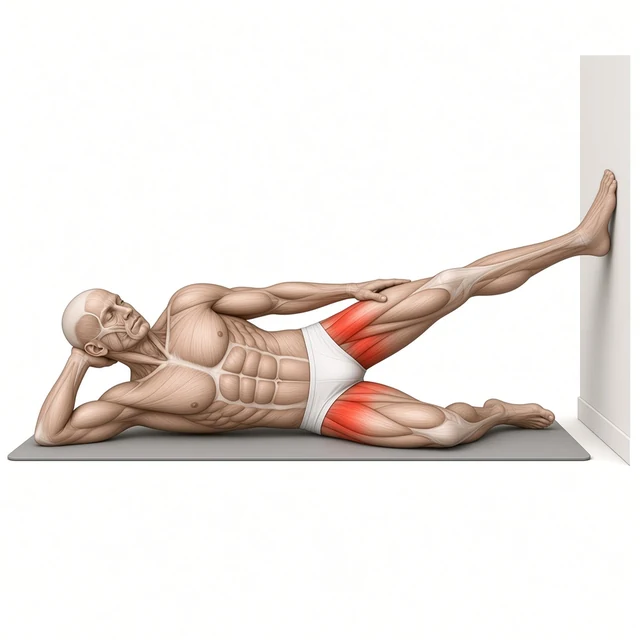
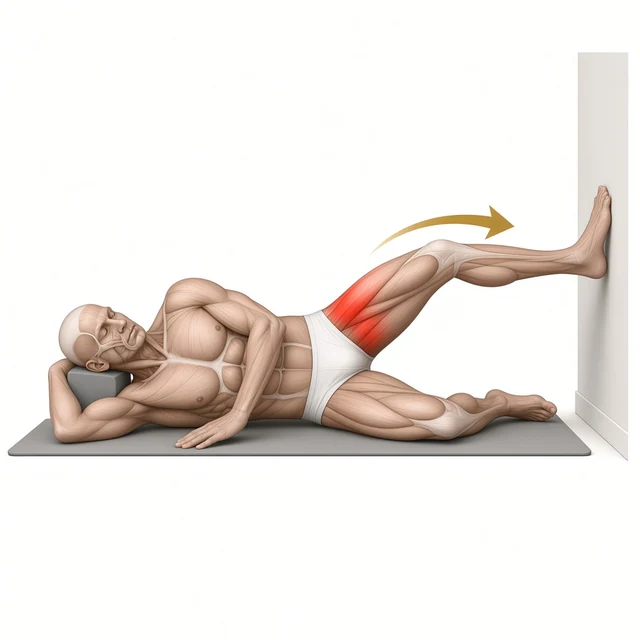
Update 2026-11-09

Changed region(s): [[0.0, 0.25, 1.0, 0.7188]]

diff --git a/mobility.js b/mobility.js
@@ -1,4 +1,4 @@
-/* Voccola Gym Log – Hüft-Beweglichkeit (v1.7.24). Eigene Daten in localStorage 'vgl-mob', berührt Trainingsdaten nicht. */
+/* Voccola Gym Log – Hüft-Beweglichkeit (v1.7.25). Eigene Daten in localStorage 'vgl-mob', berührt Trainingsdaten nicht. */
 'use strict';
 (function () {
 const KEY = 'vgl-mob';
@@ -108,6 +108,7 @@ const EX = [
     cues: ['Rücken lang, Bauch leicht fest – das Becken bleibt ruhig', 'Langsam heben, langsam zurück', 'Fortgeschritten: Rolle höher stellen', 'Kein Vorbeugen – bleib aufrecht'],
     err: ['Mit Schwung über die Rolle schleudern', 'Oberkörper kippt zur Seite oder nach hinten', 'Rundrücken'] }
 ];
+/* v1.7.25: hipwallrot korrigiert (Zac Cupples) + Diagonalschritt an der Wand (hipwallstep) – Abend-Kern, Zähler 11/11 */
 /* v1.7.24: +Hüft-Rotation an der Wand (Seitlage) – Abend-Kern (core), Zähler 10/10 */
 /* v1.7.23: +Hüftbeuger-Dehnung im Stehen (Fuß erhöht) – Abend-Kern (core), Zähler 9/9 */
 const EVE = [
@@ -152,10 +153,14 @@ const EVE = [
     steps: ['Vorderen Fuß auf eine Erhöhung stellen (Stufe oder Bank), hinteres Bein gestreckt am Boden.', 'Gesäß des hinteren Beins fest anspannen und das Becken leicht nach hinten kippen (Schambein Richtung Bauchnabel).', 'Dann die Hüfte nur ein kleines Stück nach vorn Richtung vorderes Knie schieben, bis es im Hüftbeuger des hinteren Beins zieht.', 'Oberkörper aufrecht, ruhig atmen, 30–45 s halten. Seite wechseln – 2 Sätze pro Seite.'],
     cues: ['Kein Hohlkreuz – Rippen unten, Bauch leicht fest', 'Oberkörper bleibt aufrecht', 'Ruhig atmen, Zug deutlich aber nie stechend', 'Nicht nachfedern'],
     err: ['Ins Hohlkreuz ausweichen', 'Zu weit nach vorn schieben / wippen', 'Stechenden Schmerz ignorieren', 'Oberkörper nach vorn kippen'] },
-  { id: 'hipwallrot', core: 1, eve: 1, n: 'Hüft-Rotation an der Wand (Seitlage)', sub: 'Abend · Hüftrotatoren & seitliches Gesäß, Becken neutral', dose: '2×5 Atemzüge à ~5 s pro Seite', t: 'reps', sets: 2, reps: 5, ps: true,
-    steps: ['Seitlage, Kopf auf dem unteren Arm abgelegt. Unteres Bein leicht gebeugt, oberes Bein gestreckt.', 'Fuß des oberen Beins auf Hüfthöhe an die Wand stellen – nur die Außenkante berührt die Wand.', 'Außenkante des Fußes sanft in die Wand drücken (ca. 30–40 % Kraft), Becken bleibt ruhig und neutral – nicht nach hinten kippen.', 'Ruhig ausatmen beim Drücken, 5 Atemzüge à ca. 5 s. Lösen, 2 Runden pro Seite. Variante im Stehen (Ausfallschritt) möglich.'],
-    cues: ['Becken bleibt ruhig und neutral – nicht nach hinten kippen', 'Leichter Druck, 30–40 % Kraft – kein Schmerz, kein Krampf', 'Ruhig ausatmen beim Drücken', 'Soll sich aktivierend anfühlen', 'Beide Seiten machen'],
-    err: ['Becken nach hinten kippen / rollen', 'Zu stark drücken bis Krampf', 'Stechenden Schmerz ignorieren', 'Atem anhalten'] },
+  { id: 'hipwallrot', core: 1, eve: 1, n: 'Hüft-Rotation an der Wand (Seitlage)', sub: 'Abend · Hüft-Innenrotation, hohe Seite oben · Zac Cupples', dose: '3×60 s · beidseitig (bis hohe Seite geklärt)', t: 'time', sets: 3, secs: 60, ps: true,
+    steps: ['Seitlage, hohe Hüfte oben (vorerst beidseitig, bis fachlich geklärt). Polster unter dem Kopf, unterer Arm unter dem Kopf, oberer Arm locker vor der Brust.', 'Oberes Bein ganz gestreckt, Fuß hinter dir an der Wand – Ferse und Fußballen flach in die Wand drücken. Unteres Knie leicht gebeugt, Außenseite vom unteren Oberschenkel bleibt am Boden.', 'Oberes Knie nach vorne schieben (weg von der Wand) – so dreht der Oberkörper leicht Richtung Boden (Hüft-Innenrotation). Position halten.', 'Lang und langsam durch die Nase einatmen, so voll wie möglich ohne zu pressen; sanft durch den Mund ausatmen. 60 s, 3 Runden pro Seite.'],
+    cues: ['Ferse und Fußballen flach in die Wand', 'Knie nach vorne = Innenrotation, Oberkörper leicht zum Boden', 'Unterer Oberschenkel bleibt am Boden', 'Nase ein, Mund aus – nicht pressen', 'Deutlicher, aber angenehmer Zug; kein Stechen, kein Kribbeln oder Ausstrahlen ins Bein', 'Folgetag: wenn Stehtoleranz oder Ziehen schlechter → zurückfahren', 'Beidseitig, bis die hohe Seite fachlich geklärt ist'],
+    err: ['Einatmen erzwingen / pressen', 'Unteren Oberschenkel abheben', 'Stechen, Kribbeln oder Ausstrahlung ignorieren', 'Fuß nur mit den Zehen an der Wand'] },
+  { id: 'hipwallstep', core: 1, eve: 1, n: 'Diagonalschritt an der Wand (Stand)', sub: 'Abend · Hüft-Rotation stehend · Zac Cupples', dose: '3×60 s · beidseitig (bis hohe Seite geklärt)', t: 'time', sets: 3, secs: 60, ps: true,
+    steps: ['Hintere Ferse an die Wand (hohe Seite; vorerst beidseitig). Vorderer Fuß hüftbreit nach vorn, leicht ausgedreht. Beide Füße flach, beide Knie leicht gebeugt.', 'Wand mit der hinteren Ferse wegschieben, Gewicht auf die vordere Ferse legen, Hüfte der Wandseite sinkt leicht ab.', 'Hand der Wandseite greift Richtung vorderes Knie. Po arbeitet auf der Wandseite, Oberschenkel vorne.', 'Lang durch die Nase einatmen, sanft durch den Mund ausatmen. 60 s halten, 3 Runden pro Seite.'],
+    cues: ['Beide Füße flach – nichts heben oder rollen', 'Wand wegschieben, Gewicht auf vordere Ferse', 'Hüfte der Wandseite sinkt ab', 'Nase ein, Mund aus', 'Deutlicher, aber angenehmer Zug; kein Stechen, kein Kribbeln oder Ausstrahlen ins Bein', 'Folgetag: wenn Stehtoleranz oder Ziehen schlechter → zurückfahren', 'Beidseitig, bis die hohe Seite fachlich geklärt ist'],
+    err: ['Füße heben oder rollen', 'Zu tiefer Ausfallschritt / wippen', 'Stechen, Kribbeln oder Ausstrahlung ignorieren', 'Atem anhalten'] },
 ];
 
 const FAS = [
@@ -256,7 +261,7 @@ const blockOf = e => e.eve ? 'a' : e.fas ? 'f' : e.rot ? 'w' : EX.includes(e) ? 
 function todayList(b, d) { const lu = lineup(b, tk()); return lu.concat(BLK[b].pool.filter(e => !lu.includes(e) && d.today.done[e.id])); }
 // Plan eines gespeicherten Tages: neue Einträge haben h.lineup, ältere (vor v1.7.15) bekommen den damaligen Plan
 function planOf(h, b) { if (h.lineup && h.lineup[b]) return h.lineup[b].map(byId).filter(Boolean);
-  return b === 'm' ? EX.slice() : b === 'w' ? rotForOld(h.date) : b === 'a' ? EVE.filter(e => e.id !== 'psoasreset' && e.id !== 'kniefersenrock' && e.id !== 'hipflexstand' && e.id !== 'hipwallrot') : FAS.slice(); }
+  return b === 'm' ? EX.slice() : b === 'w' ? rotForOld(h.date) : b === 'a' ? EVE.filter(e => e.id !== 'psoasreset' && e.id !== 'kniefersenrock' && e.id !== 'hipflexstand' && e.id !== 'hipwallrot' && e.id !== 'hipwallstep') : FAS.slice(); }
 
 /* ---------- Statistik ---------- */
 function stats() {

diff --git a/sw.js b/sw.js
@@ -1,11 +1,11 @@
-/* Voccola Gym Log – Service Worker (v1.7.24: Hüft-Rotation Wand Seitlage Abend) */
-const CACHE = 'vgl-v1.7.24';
+/* Voccola Gym Log – Service Worker (v1.7.25: hipwallrot fix + hipwallstep) */
+const CACHE = 'vgl-v1.7.25';
 const ASSETS = ['./', './index.html', './styles.css', './app.js', './mobility.js', './manifest.webmanifest',
   './icons/icon-192.png', './icons/icon-512.png', './icons/apple-touch-icon.png', './icons/icon-maskable-512.png', './assets/dumbbell.webp', './assets/keepawake.mp4',
   './assets/ex/b-fly-schraeg-kabel.webp', './assets/ex/bauch-crunch-maschine.webp', './assets/ex/r-facepull.webp', './assets/ex/r-revfly.webp', './assets/ex/r-row-incline-kabel.webp', './assets/ex/r-row-trapez-schraeg-breit.webp', './assets/ex/s-presse-kabel-liegend.webp', './assets/ex/s-seitheben-kabel-einarm.webp', './assets/ex/s-seitheben-vorgebeugt.webp', './assets/ex/x1.webp', './assets/ex/x10.webp', './assets/ex/x11.webp', './assets/ex/x12.webp', './assets/ex/x13.webp', './assets/ex/x14.webp', './assets/ex/x15.webp', './assets/ex/x16.webp', './assets/ex/x17.webp', './assets/ex/x18.webp', './assets/ex/x19.webp', './assets/ex/x2.webp', './assets/ex/x20.webp', './assets/ex/x21.webp', './assets/ex/x22.webp', './assets/ex/x23.webp', './assets/ex/x24.webp', './assets/ex/x25.webp', './assets/ex/x26.webp', './assets/ex/x27.webp', './assets/ex/x28.webp', './assets/ex/x3.webp', './assets/ex/x4.webp', './assets/ex/x5.webp', './assets/ex/x6.webp', './assets/ex/x7.webp', './assets/ex/x8.webp', './assets/ex/x9.webp', 
   './assets/mob/catcow.webp', './assets/mob/hamwalk.webp', './assets/mob/hipflex.webp', './assets/mob/wgs.webp', './assets/mob/n9090.webp', './assets/mob/bridge.webp', './assets/mob/birddog.webp', './assets/mob/deadbug.webp', './assets/mob/tuer.webp', './assets/mob/kneel.webp', './assets/mob/pigeon.webp', './assets/mob/turtle.webp', './assets/mob/froll_g.webp', './assets/mob/froll_t.webp', './assets/mob/ballpir.webp', './assets/mob/duoball.webp', './assets/mob/shakti.webp', './assets/mob/pigeonq.webp', './assets/mob/rollbecken.webp', './assets/mob/rollschien.webp', './assets/mob/rollknie.webp',
   './assets/mob/seq_catcow.webp', './assets/mob/seq_hamwalk.webp', './assets/mob/seq_hipflex.webp', './assets/mob/seq_wgs.webp', './assets/mob/seq_n9090.webp', './assets/mob/seq_bridge.webp', './assets/mob/seq_birddog.webp', './assets/mob/seq_deadbug.webp', './assets/mob/seq_tuer.webp', './assets/mob/seq_kneel.webp', './assets/mob/seq_pigeon.webp', './assets/mob/seq_turtle.webp', './assets/mob/seq_froll_g.webp', './assets/mob/seq_froll_t.webp', './assets/mob/seq_ballpir.webp', './assets/mob/seq_duoball.webp', './assets/mob/seq_shakti.webp', './assets/mob/seq_pigeonq.webp', './assets/mob/seq_rollbecken.webp', './assets/mob/seq_rollschien.webp', './assets/mob/seq_rollknie.webp',
-  './assets/mob/rbutter.webp', './assets/mob/seq_rbutter.webp', './assets/mob/kneechest.webp', './assets/mob/seq_kneechest.webp', './assets/mob/recpig.webp', './assets/mob/seq_recpig.webp', './assets/mob/halfhero.webp', './assets/mob/seq_halfhero.webp', './assets/mob/sphinx.webp', './assets/mob/seq_sphinx.webp', './assets/mob/sphinxrot.webp', './assets/mob/seq_sphinxrot.webp', './assets/mob/sidehip.webp', './assets/mob/seq_sidehip.webp', './assets/mob/sideadd.webp', './assets/mob/seq_sideadd.webp', './assets/mob/bearrock.webp', './assets/mob/seq_bearrock.webp', './assets/mob/beckenreset.webp', './assets/mob/seq_beckenreset.webp', './assets/mob/psoasreset.webp', './assets/mob/seq_psoasreset.webp', './assets/mob/kniefersenrock.webp', './assets/mob/seq_kniefersenrock.webp', './assets/mob/armbeinwisch.webp', './assets/mob/seq_armbeinwisch.webp', './assets/mob/halbfrosch.webp', './assets/mob/seq_halbfrosch.webp', './assets/mob/seitausfall.webp', './assets/mob/seq_seitausfall.webp', './assets/mob/hipflexstand.webp', './assets/mob/seq_hipflexstand.webp', './assets/mob/hipwallrot.webp', './assets/mob/seq_hipwallrot.webp'];
+  './assets/mob/rbutter.webp', './assets/mob/seq_rbutter.webp', './assets/mob/kneechest.webp', './assets/mob/seq_kneechest.webp', './assets/mob/recpig.webp', './assets/mob/seq_recpig.webp', './assets/mob/halfhero.webp', './assets/mob/seq_halfhero.webp', './assets/mob/sphinx.webp', './assets/mob/seq_sphinx.webp', './assets/mob/sphinxrot.webp', './assets/mob/seq_sphinxrot.webp', './assets/mob/sidehip.webp', './assets/mob/seq_sidehip.webp', './assets/mob/sideadd.webp', './assets/mob/seq_sideadd.webp', './assets/mob/bearrock.webp', './assets/mob/seq_bearrock.webp', './assets/mob/beckenreset.webp', './assets/mob/seq_beckenreset.webp', './assets/mob/psoasreset.webp', './assets/mob/seq_psoasreset.webp', './assets/mob/kniefersenrock.webp', './assets/mob/seq_kniefersenrock.webp', './assets/mob/armbeinwisch.webp', './assets/mob/seq_armbeinwisch.webp', './assets/mob/halbfrosch.webp', './assets/mob/seq_halbfrosch.webp', './assets/mob/seitausfall.webp', './assets/mob/seq_seitausfall.webp', './assets/mob/hipflexstand.webp', './assets/mob/seq_hipflexstand.webp', './assets/mob/hipwallrot.webp', './assets/mob/seq_hipwallrot.webp', './assets/mob/hipwallstep.webp', './assets/mob/seq_hipwallstep.webp'];
 self.addEventListener('install', e => {
   e.waitUntil(caches.open(CACHE).then(c => c.addAll(ASSETS.map(u => new Request(u, { cache: 'reload' })))).then(() => self.skipWaiting()));
 });

diff --git a/app.js b/app.js
@@ -1,6 +1,6 @@
 /* Voccola Gym Log – Vanilla JS, offline, keine Tracker. Daten bleiben im Browser (IndexedDB). */
 'use strict';
-const APP_VERSION = '1.7.24';
+const APP_VERSION = '1.7.25';
 
 /* ---------- Helpers ---------- */
 const $ = (s, r = document) => r.querySelector(s);
@@ -118,6 +118,7 @@ const FREE_EX = [
 const FREE_PRESET = [['r-revfly', 'Reverse Butterfly (hintere Schulter)'], ['r-facepull', 'Face Pulls (Seil)'], ['s-seitheben-vorgebeugt', 'Vorgebeugtes Seitheben (hintere Schulter)'],
   ['s-seitheben-kabel-einarm', 'Seitheben Kabel einarmig'], ['x11', 'Schulterpresse Maschine'], ['bauch-crunch-maschine', 'Crunchmaschine'],
   ['x19', 'Knieheben am Beinstrecker'], ['x21', 'Seitbeugen'], ['x20', 'Crunch am Seilzug']];
+/* v1.7.25: hipwallrot korrigiert (Zac Cupples, 3×60 s) + hipwallstep Diagonalschritt Abend-Kern → 11/11; Bilder neu; Safety-Cues Folgetag */
 /* v1.7.24: Abend: Hüft-Rotation an der Wand (Seitlage) core in EVE → 10/10 (nach hipflexstand); Bilder hipwallrot.webp + seq_hipwallrot.webp */
 /* v1.7.23: Butterfly Reverse / Seilzug Reverse → Gesamtgewicht (nicht p.S.); Abend: Hüftbeuger-Dehnung im Stehen (Fuß erhöht) core in EVE → 9/9
 /* v1.7.22: Trapez-Rudern Schrägbank Kabel (breit) – im Oberkörper-Plan (Rücken), am Ende des Rücken-Blocks (nach „Latzug mit Seil“), Bild r-row-trapez-schraeg-breit.webp; bestehende Übungen/Reihenfolge/Sätze unverändert, Samstag unverändert */
